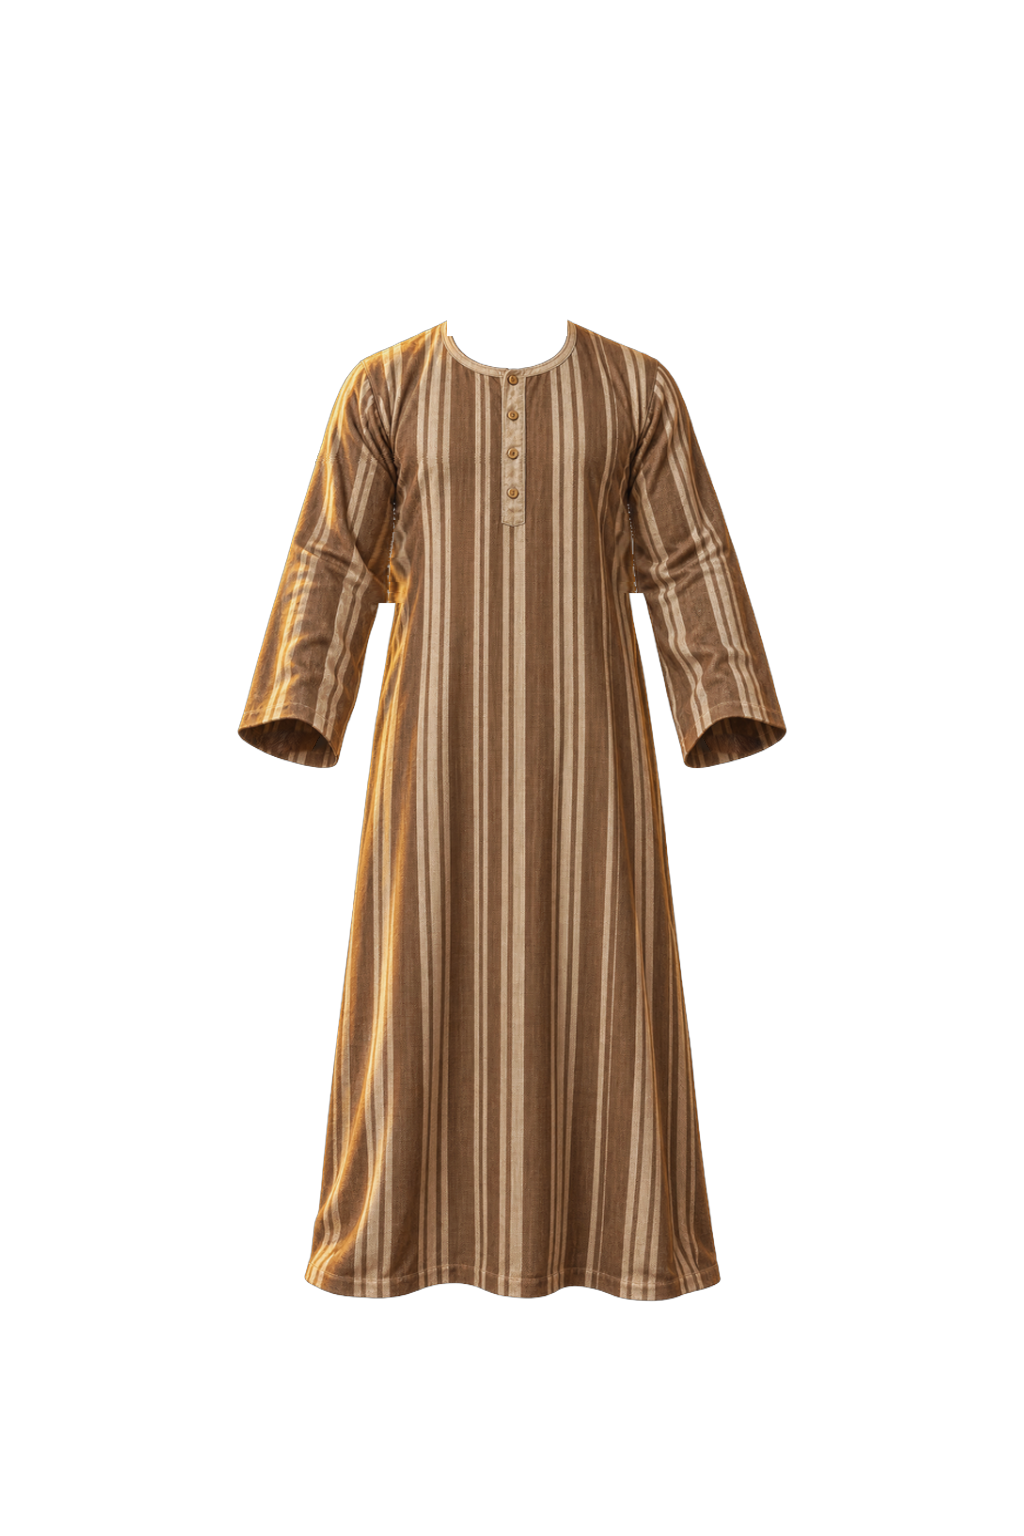
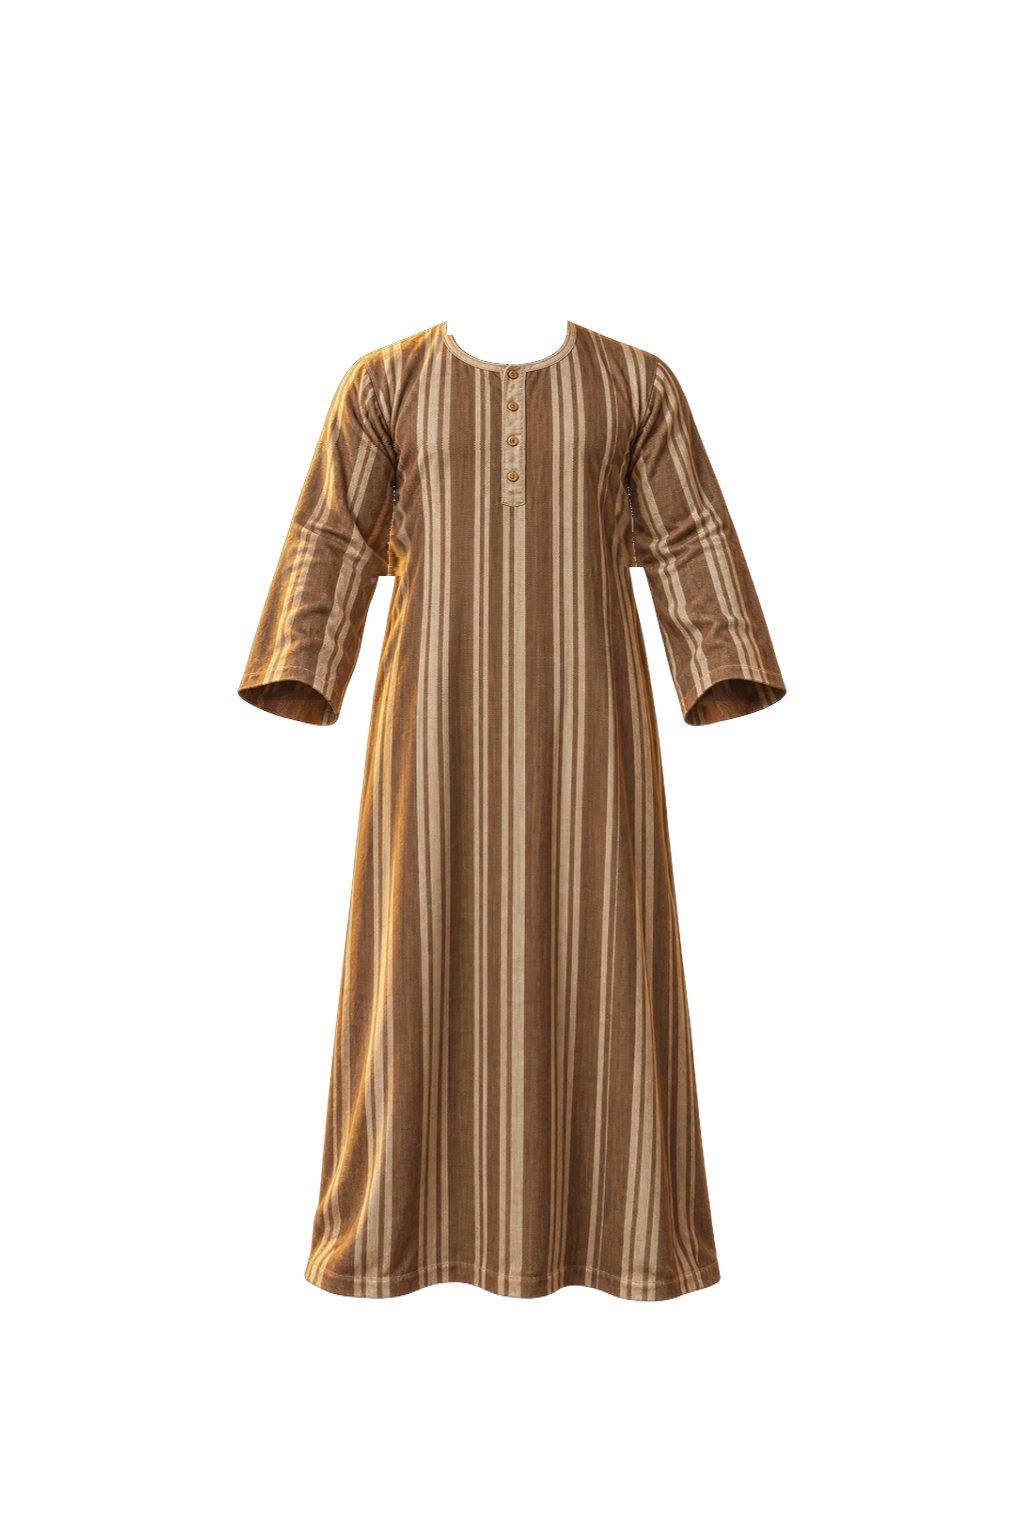
Arms come out of the cuff in front of its back edge; closed collars
- The shaded cuff opening now carries his forearm down over the sleeve's back
  rim, so the arm comes out of the sleeve instead of from behind it.
- Letting the robes down to the ankle stretched the whole garment and pulled
  the neckline off his neck, leaving see-through gaps beside it. Only the skirt
  below the waist is stretched now; necklines and sleeves stay as painted.
- The vest's own see-through back collar is closed with the back of the collar
  in shadow.

Claude-Session: https://claude.ai/code/session_01RsyrrUsDDaKTV5xQN8SsoM

Changed region(s): [[0.2188, 0.2188, 0.7812, 0.8438], [0.6562, 0.8125, 0.6875, 0.8438]]

diff --git a/tools/cuffs.py b/tools/cuffs.py
@@ -82,8 +82,52 @@ def fix(a):
         depth = np.clip((yy - (cy - ry)) / (2 * ry), 0, 1)
         shade = 0.28 + 0.34 * depth
         fill = np.where(B[..., None], arm[..., :3] * shade[..., None], np.array([40, 26, 16], float))
+        # the back rim of the cuff below the oval: his arm comes out in front of it
+        arm_cols = [x for x, b in run if SKIN[b + 3: b + 12, x].mean() > 0.8]
+        if arm_cols:
+            xl, xr = min(arm_cols) + 2, max(arm_cols) - 2
+            rim = np.zeros_like(m)
+            rim[int(cy): int(bots.max()) + 3, xl: xr + 1] = 1
+            rim = ndimage.gaussian_filter(rim, 1.5)
+            m = np.maximum(m, rim)
+            below = np.clip((yy - cy) / max(1.0, bots.max() - cy), 0, 1)
+            shade = np.where(yy > cy, 0.55 + 0.4 * below, shade)
+            fill = np.where(B[..., None], arm[..., :3] * shade[..., None], np.array([40, 26, 16], float))
         k = m * (a[..., 3] / 255.0)
         out[..., :3] = out[..., :3] * (1 - k[..., None]) + fill * k[..., None]
+    return out
+
+
+def collar(a):
+    """Fill the see-through gaps beside his neck with the back of the collar, in shadow."""
+    out = a.copy()
+    A = a[..., 3] > 40
+    ys = np.nonzero(A.any(axis=1))[0]
+    if not len(ys):
+        return out
+    top = ys.min()
+    n = 0
+    for y in range(max(0, top - 4), min(Hh, top + 80)):
+        row_g, row_b = A[y], B[y]
+        both = row_g | row_b
+        xs = np.nonzero(both)[0]
+        if not len(xs):
+            continue
+        for side in (-1, 1):
+            # walk from the centre of the neck outwards: neck, then a gap, then cloth
+            x = CX
+            while 0 < x < W - 1 and row_b[x] and not row_g[x]:
+                x += side
+            start = x
+            while 0 < x < W - 1 and not both[x] and abs(x - start) < 70:
+                x += side
+            if 0 < x < W - 1 and row_g[x] and x != start and abs(x - start) < 70:
+                lo, hi = sorted((start, x))
+                c = a[y, x + side * 3, :3] if 0 < x + side * 3 < W else a[y, x, :3]
+                out[y, lo:hi + 1, :3] = c * 0.45
+                out[y, lo:hi + 1, 3] = 255
+                n += hi - lo + 1
+    # soften the filled patch
     return out
 
 
@@ -92,5 +136,5 @@ if __name__ == '__main__':
         f = HERO / 'wardrobe' / f'{pid}.png'
         a = np.array(Image.open(f).convert('RGBA')).astype(np.float32)
         n = len(cuffs(a))
-        Image.fromarray(fix(a).clip(0, 255).astype(np.uint8)).save(f, optimize=True)
+        Image.fromarray(collar(fix(a)).clip(0, 255).astype(np.uint8)).save(f, optimize=True)
         print(f'{pid}: {n} cuff(s) shaded')

diff --git a/tools/refit.py b/tools/refit.py
@@ -97,6 +97,28 @@ def warp(img, ax, ay, sx, sy, dx, dy, box=None):
     return Image.fromarray(np.clip(out, 0, 255).astype(np.uint8))
 
 
+WAIST = int(H * 0.47)
+
+
+def let_down(img, pivot, hem):
+    a = np.array(img).astype(np.float32)
+    rows = np.nonzero((a[..., 3] > 40).any(axis=1))[0]
+    bottom = rows.max()
+    if bottom >= hem or bottom <= pivot:
+        return img
+    k = (hem - pivot) / (bottom - pivot)
+    out = a.copy()
+    out[pivot:] = 0
+    # each output row below the pivot samples the painted skirt higher up
+    for y in range(pivot, min(H, hem + 4)):
+        src = pivot + (y - pivot) / k
+        y0 = int(src); t = src - y0
+        if y0 + 1 >= H:
+            break
+        out[y] = a[y0] * (1 - t) + a[y0 + 1] * t
+    return Image.fromarray(np.clip(out, 0, 255).astype(np.uint8))
+
+
 def save(pid, img, moves):
     f = DIR / f'{pid}.png'
     RAW.mkdir(parents=True, exist_ok=True)
@@ -147,15 +169,21 @@ def fit_body(pid, legs):
     if not best:
         print(f'{pid}: no fit keeps it covering him; left as is'); return
     _, sx, sy, dx, dy = best
-    if pid in ANKLE_LENGTH:
-        # an ankle-length robe painted short: let the hem down to just above the ankle
-        full = np.nonzero(np.array(img)[..., 3] > 40)[0]
-        sy = max(sy, (ANKLE - 30 - full.min()) / (full.max() - full.min()))
     mv = (CX, ay * Q, sx, sy, dx * Q, dy * Q)
     out = warp(img, *mv)
-    if not legs and pid not in SLEEVELESS:
-        # his forearm goes into the sleeve instead of past an empty cuff (tools/cuffs.py)
-        out = Image.fromarray(cuffs.fix(np.array(out).astype(np.float32)).clip(0, 255).astype(np.uint8))
+    if pid in ANKLE_LENGTH:
+        # an ankle-length robe painted short: let the hem down to just above the ankle,
+        # stretching only the skirt below the waist so the neckline and sleeves stay as painted
+        out = let_down(out, WAIST, ANKLE - 30)
+    if not legs:
+        # his forearm goes into the sleeve instead of past an empty cuff, and the back of the
+        # collar closes the see-through gaps beside his neck (tools/cuffs.py)
+        a = np.array(out).astype(np.float32)
+        if pid not in SLEEVELESS:
+            a = cuffs.fix(a)
+        if pid in SLEEVELESS:
+            a = cuffs.collar(a)
+        out = Image.fromarray(a.clip(0, 255).astype(np.uint8))
     save(pid, out, [mv])
     print(f'{pid}: width x{sx:.2f}, length x{sy:.2f}, shift {dx * Q:+.0f}px')
 
